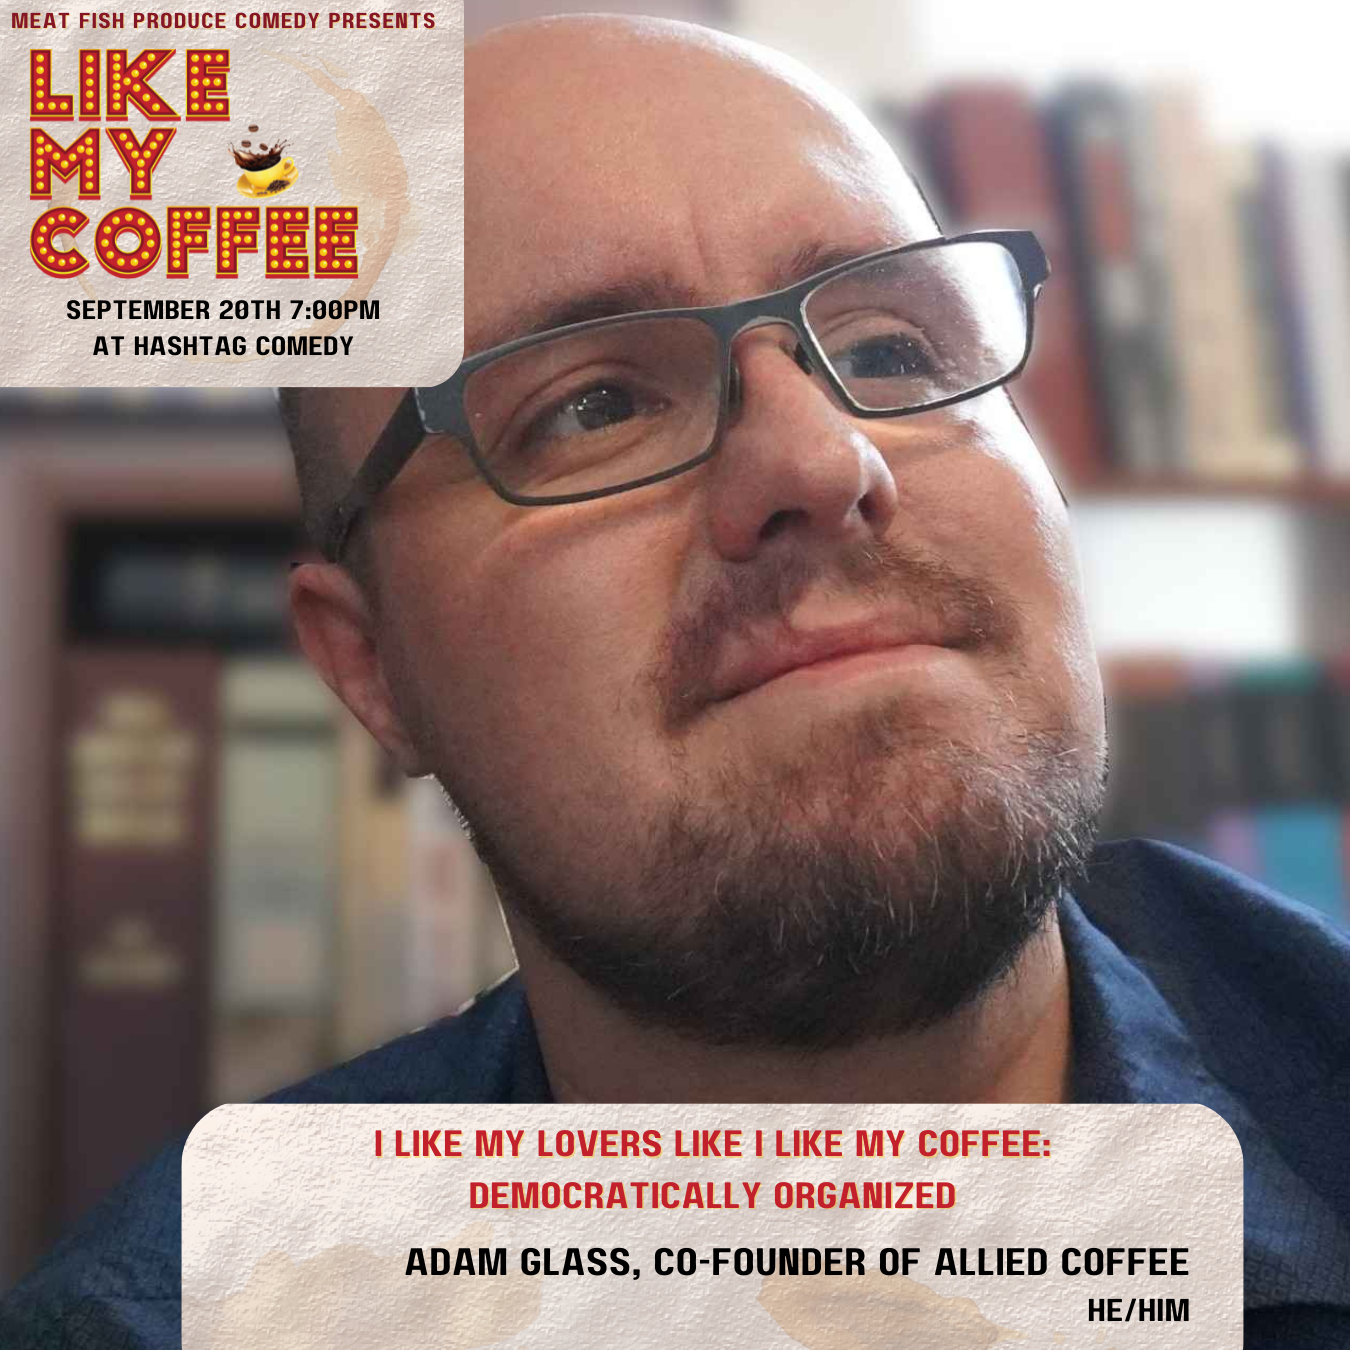
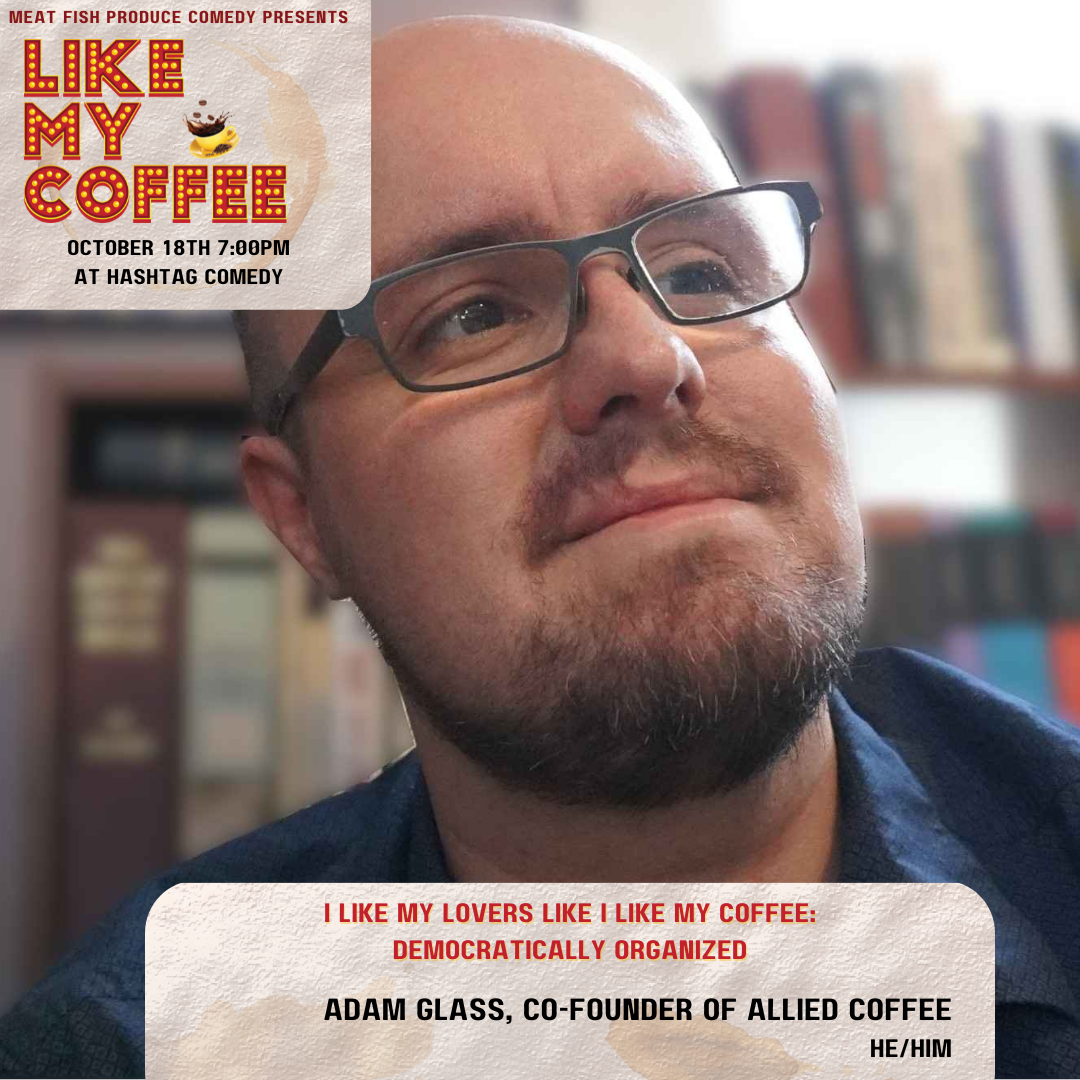
Getting ready for October show

diff --git a/server/src/shows/20251018.ts b/server/src/shows/20251018.ts
@@ -1,0 +1,156 @@
+import { ShowType } from "../../sharedCopy";
+
+export const show: ShowType = {
+	rounds: [
+		{
+			players: [
+				{
+					displayName: "Justin",
+					pronouns: "He/Him",
+					score: 0,
+					soundIndex: 0,
+					isWinner: false,
+				},
+				{
+					displayName: "Len",
+					pronouns: "He/Him",
+					score: 0,
+					soundIndex: 1,
+					isWinner: false,
+				},
+				{
+					displayName: "Kitty",
+					pronouns: "She/Her",
+					score: 0,
+					soundIndex: 2,
+					isWinner: false,
+				},
+			],
+			minigame: "Time Lines",
+			example: "Sex with me is like the beginning of the universe: a big bang",
+			timelength: 12,
+			prompts: [
+				"Something in your living room",
+				"Profession you want",
+				"Something you want",
+			],
+		},
+		{
+			players: [
+				{
+					displayName: "Lisa",
+					pronouns: "She/Her",
+					score: 0,
+					soundIndex: 3,
+					isWinner: false,
+				},
+				{
+					displayName: "Mike",
+					pronouns: "He/Him",
+					score: 0,
+					soundIndex: 4,
+					isWinner: false,
+				},
+				{
+					displayName: "Tony",
+					pronouns: "He/Him",
+					score: 0,
+					soundIndex: 5,
+					isWinner: false,
+				},
+			],
+			minigame: "Not Sponsored By",
+			example: "I like my lovers like I like Nintendo: A Switch, too",
+			timelength: 12,
+			prompts: [
+				"Something in your kitchen",
+				"Profession you work now",
+				"Something you need",
+			],
+		},
+		{
+			players: [
+				{
+					displayName: "Lord Anthony",
+					pronouns: "He/Him",
+					score: 0,
+					soundIndex: 6,
+					isWinner: false,
+				},
+				{
+					displayName: "Audrey",
+					pronouns: "She/Her",
+					score: 0,
+					soundIndex: 7,
+					isWinner: false,
+				},
+				{
+					displayName: "Jules",
+					pronouns: "She/Her",
+					score: 0,
+					soundIndex: 8,
+					isWinner: false,
+				},
+			],
+			minigame: "Bad Communication",
+			example:
+				"Doing the laundry - Yeah I'm OK to put another load in before going to bed.",
+			timelength: 12,
+			prompts: [
+				"Something in your bathroom",
+				"Profession you hate",
+				"Something you hate",
+			],
+		},
+		{
+			players: [
+				{
+					displayName: "Dummy Data",
+					pronouns: "",
+					score: 0,
+					soundIndex: 9,
+					isWinner: false,
+				},
+				{
+					displayName: "Dummy Data",
+					pronouns: "",
+					score: 0,
+					soundIndex: 10,
+					isWinner: false,
+				},
+				{
+					displayName: "Dummy Data",
+					pronouns: "",
+					score: 0,
+					soundIndex: 11,
+					isWinner: false,
+				},
+			],
+			minigame: "",
+			example: "",
+			timelength: 10,
+			prompts: [
+				"Something in your Attic/Basement",
+				"Profession you're unqualified for",
+				"Something someone gave you",
+			],
+		},
+	],
+	images: [
+		"Apply.png",
+		"Anthony.png",
+		"Audrey.png",
+		"Justin.png",
+		"Kitty.png",
+		"JD.png",
+		"Len.png",
+		"Lisa.png",
+		"Mike.png",
+		"Tony.png",
+		"Adam.png",
+		"Social.png",
+	],
+	logo: "logo.png",
+	apply: "Apply.png",
+	social: "Social.png",
+};

diff --git a/client/src/pages/Nametags/Nametags.tsx b/client/src/pages/Nametags/Nametags.tsx
@@ -60,8 +60,8 @@ export const Nametags = () => {
 					<div className={el === 0 ? "page" : "right-page"}>
 						<div className="nametag" contentEditable="true">
 							<div className="nametag-lmc-logo"> </div>
-							<div className="nametag-name">Indy</div>
-							<div className="nametag-pronouns">They/Them</div>
+							<div className="nametag-name">J.D.</div>
+							<div className="nametag-pronouns">He/Him</div>
 							<div className="nametag-mfp-logo"> </div>
 						</div>
 					</div>

diff --git a/server/src/shows/archived/20250920.ts b/server/src/shows/archived/20250920.ts
@@ -1,4 +1,4 @@
-import { ShowType } from "../../sharedCopy";
+import { ShowType } from "../../../sharedCopy";
 
 export const show: ShowType = {
 	rounds: [

diff --git a/server/src/shows/index.ts b/server/src/shows/index.ts
@@ -1,2 +1,2 @@
 //Update where this points to before every new show!
-export * from "./20250920";
+export * from "./20251018";
